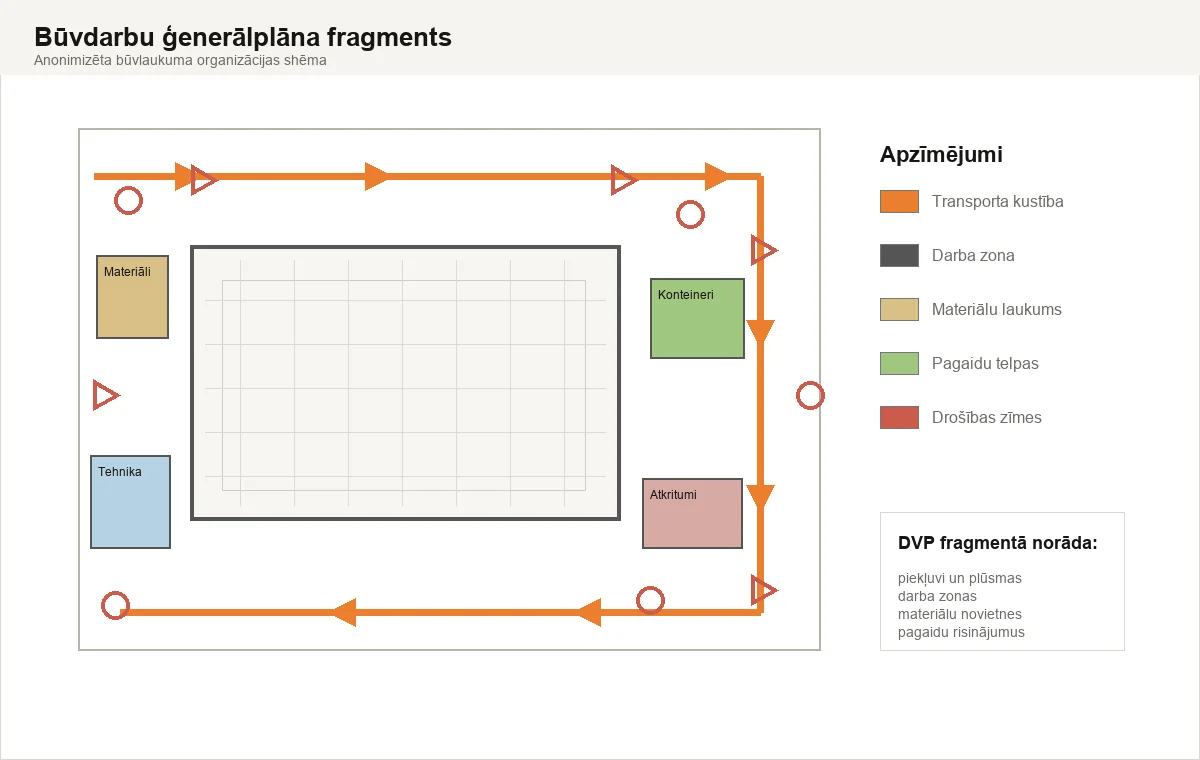
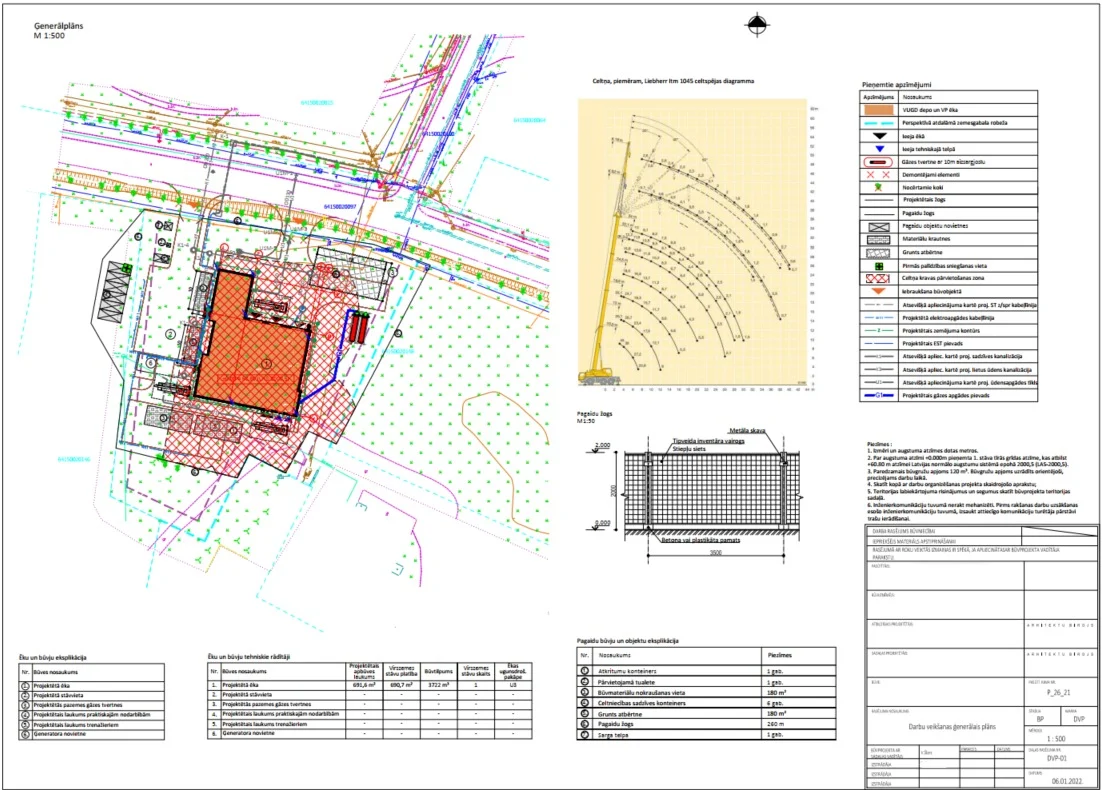
Release DVP examples carousel cleanup

diff --git a/dvp-izstrade.html b/dvp-izstrade.html
@@ -137,7 +137,8 @@
 .cards{display:grid;gap:14px}.card{padding:32px;background:#fff;border:1px solid var(--c-border);border-radius:6px}.section--dark .card{background:rgba(255,255,255,.04);border-color:rgba(255,255,255,.12)}.card__label{font-size:12px;letter-spacing:.12em;text-transform:uppercase;color:var(--c-sand);font-weight:600;margin-bottom:18px}.card h3{font-size:24px;line-height:1.18;font-weight:500;margin-bottom:12px}.card p{color:var(--c-grey)}.section--dark .card p{color:rgba(255,255,255,.68)}
 .notice{background:rgba(200,169,126,.12);border:1px solid rgba(200,169,126,.32);border-radius:6px;padding:32px}.notice h3{font-size:24px;line-height:1.2;font-weight:500;margin-bottom:12px}.notice p{color:var(--c-grey)}
 .steps{display:grid;gap:1px;background:var(--c-border);border:1px solid var(--c-border)}.step{background:var(--c-warm);padding:32px}.step__num{font-size:12px;color:var(--c-sand);font-weight:600;letter-spacing:.12em;margin-bottom:18px}.step h3{font-size:23px;line-height:1.2;font-weight:500;margin-bottom:12px}.step p{color:var(--c-grey)}@media(min-width:900px){.steps{grid-template-columns:repeat(4,1fr)}}
-.source-note{margin-top:22px;color:var(--c-grey);font-size:15px}.source-note a{color:var(--c-graphite);border-bottom:1px solid rgba(15,15,14,.22)}.section--dark .source-note{color:rgba(255,255,255,.68)}.section--dark .source-note a{color:#fff;border-bottom-color:rgba(255,255,255,.28)}.inline-link{color:var(--c-graphite);border-bottom:1px solid rgba(15,15,14,.22)}.section--dark .inline-link{color:#fff;border-bottom-color:rgba(255,255,255,.28)}.tag-list{display:flex;flex-wrap:wrap;gap:10px;margin-top:18px}.tag-list span{display:inline-flex;align-items:center;min-height:34px;padding:6px 12px;border:1px solid var(--c-border);border-radius:4px;background:#fff;color:var(--c-graphite);font-size:14px}.section--dark .tag-list span{background:rgba(255,255,255,.06);border-color:rgba(255,255,255,.14);color:rgba(255,255,255,.84)}.content-groups{display:grid;gap:14px}.content-group{padding:28px;background:#fff;border:1px solid var(--c-border);border-radius:6px}.section--dark .content-group{background:rgba(255,255,255,.04);border-color:rgba(255,255,255,.12)}.content-group h3{font-size:22px;line-height:1.2;font-weight:500;margin-bottom:14px}.content-group ul{list-style:none;display:grid;gap:9px}.content-group li{position:relative;padding-left:20px;color:var(--c-grey)}.content-group li:before{content:"";position:absolute;left:0;top:.72em;width:6px;height:6px;border-radius:50%;background:var(--c-sand)}.section--dark .content-group li{color:rgba(255,255,255,.7)}.preview-grid{display:grid;gap:16px;margin-top:42px}@media(min-width:860px){.preview-grid{grid-template-columns:repeat(3,1fr)}}.preview-card{display:block;width:100%;padding:0;background:#fff;border:1px solid var(--c-border);border-radius:6px;text-align:left;overflow:hidden;color:var(--c-graphite);transition:transform .18s,border-color .18s}.preview-card:hover{transform:translateY(-2px);border-color:rgba(200,169,126,.65)}.preview-card:focus-visible{outline:3px solid rgba(200,169,126,.55);outline-offset:3px}.preview-card img{display:block;width:100%;aspect-ratio:16/10;object-fit:cover;background:#fff}.preview-card__body{display:block;padding:22px}.preview-card__title{display:block;font-size:21px;line-height:1.2;font-weight:500;margin-bottom:8px}.preview-card__text{display:block;color:var(--c-grey);font-size:15px;line-height:1.55}.compare-grid{display:grid;gap:14px}@media(min-width:820px){.compare-grid{grid-template-columns:1fr 1fr}}.compare-card{padding:30px;background:#fff;border:1px solid var(--c-border);border-radius:6px}.compare-card h3{font-size:23px;font-weight:500;margin-bottom:12px}.compare-card p{color:var(--c-grey)}.not-equal{margin-top:18px;font-size:18px;font-weight:700;color:var(--c-sand)}.preview-dialog{width:min(1120px,calc(100vw - 32px));padding:0;border:0;border-radius:6px;background:#fff;box-shadow:0 24px 80px rgba(0,0,0,.34)}.preview-dialog::backdrop{background:rgba(15,15,14,.78)}.preview-dialog__inner{position:relative;padding:18px}.preview-dialog__close{position:absolute;right:26px;top:26px;width:42px;height:42px;border-radius:4px;background:rgba(15,15,14,.9);color:#fff;font-size:28px;line-height:1}.preview-dialog__close:focus-visible{outline:3px solid rgba(200,169,126,.75);outline-offset:3px}.preview-dialog img{display:block;width:100%;height:auto;border:1px solid var(--c-border);background:#fff}.preview-dialog[open]{display:block}
+.source-note{margin-top:22px;color:var(--c-grey);font-size:15px}.source-note a{color:var(--c-graphite);border-bottom:1px solid rgba(15,15,14,.22)}.section--dark .source-note{color:rgba(255,255,255,.68)}.section--dark .source-note a{color:#fff;border-bottom-color:rgba(255,255,255,.28)}.inline-link{color:var(--c-graphite);border-bottom:1px solid rgba(15,15,14,.22)}.section--dark .inline-link{color:#fff;border-bottom-color:rgba(255,255,255,.28)}.tag-list{display:flex;flex-wrap:wrap;gap:10px;margin-top:18px}.tag-list span{display:inline-flex;align-items:center;min-height:34px;padding:6px 12px;border:1px solid var(--c-border);border-radius:4px;background:#fff;color:var(--c-graphite);font-size:14px}.section--dark .tag-list span{background:rgba(255,255,255,.06);border-color:rgba(255,255,255,.14);color:rgba(255,255,255,.84)}.content-groups{display:grid;gap:14px}.content-group{padding:28px;background:#fff;border:1px solid var(--c-border);border-radius:6px}.section--dark .content-group{background:rgba(255,255,255,.04);border-color:rgba(255,255,255,.12)}.content-group h3{font-size:22px;line-height:1.2;font-weight:500;margin-bottom:14px}.content-group ul{list-style:none;display:grid;gap:9px}.content-group li{position:relative;padding-left:20px;color:var(--c-grey)}.content-group li:before{content:"";position:absolute;left:0;top:.72em;width:6px;height:6px;border-radius:50%;background:var(--c-sand)}.section--dark .content-group li{color:rgba(255,255,255,.7)}.compare-grid{display:grid;gap:14px}@media(min-width:820px){.compare-grid{grid-template-columns:1fr 1fr}}.compare-card{padding:30px;background:#fff;border:1px solid var(--c-border);border-radius:6px}.compare-card h3{font-size:23px;font-weight:500;margin-bottom:12px}.compare-card p{color:var(--c-grey)}.preview-dialog{width:min(1120px,calc(100vw - 32px));padding:0;border:0;border-radius:6px;background:#fff;box-shadow:0 24px 80px rgba(0,0,0,.34)}.preview-dialog::backdrop{background:rgba(15,15,14,.78)}.preview-dialog__inner{position:relative;padding:18px}.preview-dialog__close{position:absolute;right:26px;top:26px;width:42px;height:42px;border-radius:4px;background:rgba(15,15,14,.9);color:#fff;font-size:28px;line-height:1}.preview-dialog__close:focus-visible{outline:3px solid rgba(200,169,126,.75);outline-offset:3px}.preview-dialog img{display:block;width:100%;height:auto;border:1px solid var(--c-border);background:#fff}.preview-dialog[open]{display:block}
+.dvp-gallery{margin-top:48px;padding:clamp(16px,3vw,30px);background:var(--c-light);border:1px solid var(--c-border);border-radius:6px;box-shadow:0 20px 70px rgba(15,15,14,.08)}.dvp-gallery__viewport{position:relative;display:flex;align-items:center;justify-content:center;min-height:clamp(360px,58vw,680px);background:#fff;border:1px solid var(--c-border);border-radius:4px;overflow:hidden}.dvp-gallery__image-button{display:flex;align-items:center;justify-content:center;width:100%;min-height:inherit;padding:18px;background:#fff}.dvp-gallery__image-button:focus-visible{outline:3px solid rgba(200,169,126,.55);outline-offset:-6px}.dvp-gallery__image{display:block;width:100%;height:clamp(330px,54vw,640px);object-fit:contain;background:#fff}.dvp-gallery__nav{position:absolute;top:50%;z-index:2;display:inline-flex;align-items:center;justify-content:center;width:48px;height:48px;border:1px solid rgba(15,15,14,.14);border-radius:4px;background:rgba(255,255,255,.94);color:var(--c-graphite);box-shadow:0 10px 26px rgba(15,15,14,.12);transition:background .18s,border-color .18s,transform .18s}.dvp-gallery__nav:hover{background:#fff;border-color:rgba(200,169,126,.7);transform:translateY(-50%) scale(1.03)}.dvp-gallery__nav:focus-visible{outline:3px solid rgba(200,169,126,.55);outline-offset:3px}.dvp-gallery__nav--prev{left:18px;transform:translateY(-50%)}.dvp-gallery__nav--next{right:18px;transform:translateY(-50%)}.dvp-gallery__nav svg{width:21px;height:21px}.dvp-gallery__meta{display:grid;gap:16px;margin-top:22px}@media(min-width:760px){.dvp-gallery__meta{grid-template-columns:1fr auto;align-items:end}}.dvp-gallery__title{font-size:24px;line-height:1.2;font-weight:500;margin-bottom:6px}.dvp-gallery__text{color:var(--c-grey);font-size:16px;line-height:1.55}.dvp-gallery__counter{display:inline-flex;align-items:center;justify-content:center;min-width:74px;min-height:42px;padding:8px 14px;border:1px solid var(--c-border);border-radius:4px;background:#fff;color:var(--c-grey);font-size:14px;font-weight:600}.preview-dialog{width:min(1420px,calc(100vw - 28px));height:min(92vh,900px);max-height:92vh;background:var(--c-light)}.preview-dialog__inner{height:100%;display:flex;flex-direction:column;padding:18px}.preview-dialog__figure{height:100%;display:grid;grid-template-rows:minmax(0,1fr) auto;gap:14px}.preview-dialog img{width:100%;height:100%;max-height:calc(92vh - 112px);object-fit:contain}.preview-dialog__caption{display:grid;gap:3px;color:var(--c-graphite);padding-right:58px}.preview-dialog__caption strong{font-size:17px;line-height:1.25;font-weight:600}.preview-dialog__caption span{color:var(--c-grey);font-size:14px;line-height:1.45}@media(max-width:640px){.dvp-gallery{margin-top:36px;padding:12px}.dvp-gallery__viewport{min-height:360px}.dvp-gallery__image-button{padding:12px}.dvp-gallery__image{height:336px}.dvp-gallery__nav{width:42px;height:42px}.dvp-gallery__nav--prev{left:10px}.dvp-gallery__nav--next{right:10px}.dvp-gallery__title{font-size:21px}.preview-dialog{width:calc(100vw - 16px);height:88vh}.preview-dialog__inner{padding:12px}.preview-dialog__close{right:18px;top:18px}.preview-dialog img{max-height:calc(88vh - 116px)}.preview-dialog__caption{padding-right:54px}}
 .faq{padding:var(--sp-10) 0;background:#fff}.faq__head{max-width:760px;margin-bottom:56px}.faq__list{display:grid;gap:12px}.faq__item{border:1px solid var(--c-border);border-radius:6px;background:#fff;overflow:hidden}.faq__question{width:100%;display:flex;align-items:center;justify-content:space-between;gap:18px;padding:22px 24px;text-align:left;font-size:18px;font-weight:600;color:var(--c-graphite)}.faq__icon{width:20px;height:20px;flex:0 0 auto;transition:transform .18s}.faq__item.open .faq__icon{transform:rotate(45deg)}.faq__answer{display:none;padding:0 24px 24px;color:var(--c-grey)}.faq__item.open .faq__answer{display:block}
 .related{background:var(--c-light);padding:80px 0}.related h2{font-size:clamp(30px,4vw,52px);font-weight:300;line-height:1.08;margin-bottom:32px}.related__grid{display:grid;gap:14px}.related-card{min-height:76px;padding:22px 24px;background:#fff;border:1px solid var(--c-border);border-radius:4px;display:flex;align-items:center;justify-content:space-between;font-weight:600;transition:.18s}.related-card:hover{transform:translateY(-2px);border-color:rgba(200,169,126,.55)}@media(min-width:760px){.related__grid{grid-template-columns:repeat(2,1fr)}}
 .cta{padding:var(--sp-10) 0;background:#fff}.cta__box{background:var(--c-graphite);color:#fff;border-radius:6px;padding:clamp(32px,6vw,72px);display:grid;gap:40px;align-items:start}.cta p{color:rgba(255,255,255,.72);font-size:18px;max-width:680px;margin-top:20px}.cta__actions{display:flex;flex-wrap:wrap;gap:14px;margin-top:28px}@media(min-width:920px){.cta__box{grid-template-columns:.95fr 1.05fr}}
@@ -327,19 +328,25 @@
         </div>
         <p class="lead reveal d2">DVP sastāv no pārskatāmas teksta daļas un praktiskiem pielikumiem. Šie ir anonimizēti priekšskatījumi, kas atspoguļo reālu DVP struktūru bez projekta identificējošiem datiem.</p>
       </div>
-      <div class="preview-grid" aria-label="DVP dokumentācijas priekšskatījumi">
-        <button class="preview-card reveal" type="button" data-preview-src="/assets/dvp/dvp-darbu-grafiks.webp" data-preview-alt="Anonimizēts DVP darbu grafika fragments ar darbu posmiem un laika skalu">
-          <img src="/assets/dvp/dvp-darbu-grafiks.webp" alt="Anonimizēts DVP darbu grafika fragments ar darbu posmiem un laika skalu" width="1200" height="760" loading="lazy" decoding="async">
-          <span class="preview-card__body"><span class="preview-card__title">Darbu grafiks</span><span class="preview-card__text">Laika ass, darbu posmi, ilgums un secība, pēc kuras būvlaukumā plāno izpildi.</span></span>
-        </button>
-        <button class="preview-card reveal d1" type="button" data-preview-src="/assets/dvp/dvp-generalplans.webp" data-preview-alt="Anonimizēts būvdarbu ģenerālplāna fragments ar transporta kustību, darba zonām un materiālu laukumiem">
-          <img src="/assets/dvp/dvp-generalplans.webp" alt="Anonimizēts būvdarbu ģenerālplāna fragments ar transporta kustību, darba zonām un materiālu laukumiem" width="1200" height="760" loading="lazy" decoding="async">
-          <span class="preview-card__body"><span class="preview-card__title">Būvdarbu ģenerālplāns</span><span class="preview-card__text">Būvlaukuma organizācija, transporta plūsma, darba zonas, pagaidu telpas un materiālu novietnes.</span></span>
-        </button>
-        <button class="preview-card reveal d2" type="button" data-preview-src="/assets/dvp/dvp-tehnologiskais-apraksts.webp" data-preview-alt="Anonimizēts DVP tehnoloģiskā apraksta fragments ar darbu metodi, kontroli un pielikumiem">
-          <img src="/assets/dvp/dvp-tehnologiskais-apraksts.webp" alt="Anonimizēts DVP tehnoloģiskā apraksta fragments ar darbu metodi, kontroli un pielikumiem" width="1200" height="760" loading="lazy" decoding="async">
-          <span class="preview-card__body"><span class="preview-card__title">DVP teksta daļa</span><span class="preview-card__text">Darbu metode, tehnoloģiskā secība, aprīkojums, materiāli, pārbaudes un kvalitātes kontrole.</span></span>
-        </button>
+      <div class="dvp-gallery reveal d3" data-dvp-gallery aria-label="DVP dokumentācijas priekšskatījumi">
+        <div class="dvp-gallery__viewport">
+          <button class="dvp-gallery__nav dvp-gallery__nav--prev" type="button" data-dvp-prev aria-label="Iepriekšējais piemērs">
+            <svg viewBox="0 0 24 24" fill="none" aria-hidden="true"><path d="M15 5l-7 7 7 7" stroke="currentColor" stroke-width="1.7" stroke-linecap="round" stroke-linejoin="round"/></svg>
+          </button>
+          <button class="dvp-gallery__image-button" type="button" data-dvp-open aria-label="Palielināt: Būvdarbu ģenerālplāns">
+            <img class="dvp-gallery__image" data-dvp-image src="/assets/dvp/dvp-generalplans.webp" alt="Anonimizēts DVP būvdarbu ģenerālplāna fragments" width="1102" height="790" loading="lazy" decoding="async">
+          </button>
+          <button class="dvp-gallery__nav dvp-gallery__nav--next" type="button" data-dvp-next aria-label="Nākamais piemērs">
+            <svg viewBox="0 0 24 24" fill="none" aria-hidden="true"><path d="M9 5l7 7-7 7" stroke="currentColor" stroke-width="1.7" stroke-linecap="round" stroke-linejoin="round"/></svg>
+          </button>
+        </div>
+        <div class="dvp-gallery__meta">
+          <div class="dvp-gallery__caption">
+            <h3 class="dvp-gallery__title" data-dvp-title>Būvdarbu ģenerālplāns</h3>
+            <p class="dvp-gallery__text" data-dvp-text>Būvlaukuma organizācija, piekļuves un darba zonas.</p>
+          </div>
+          <div class="dvp-gallery__counter" data-dvp-counter aria-live="polite">1 / 5</div>
+        </div>
       </div>
     </div>
   </section>
@@ -348,12 +355,12 @@
     <div class="container split">
       <div>
         <p class="label reveal">DOP un DVP</p>
-        <h2 id="dop-heading" class="reveal d1">DOP ≠ DVP.</h2>
-        <p class="lead reveal d2">DOP un DVP risina saistītus, bet atšķirīgus būvniecības organizācijas jautājumus.</p>
+        <h2 id="dop-heading" class="reveal d1">DOP un DVP</h2>
+        <p class="lead reveal d2">Atšķirīgi dokumenti ar atšķirīgu uzdevumu būvniecības procesā.</p>
       </div>
       <div class="compare-grid">
         <article class="compare-card reveal"><h3>DOP - Darbu organizēšanas projekts</h3><p>DOP ir būvprojekta sastāvā esošs risinājums, kas apraksta būvdarbu organizāciju projekta dokumentācijas līmenī.</p></article>
-        <article class="compare-card reveal d1"><h3>DVP - Darbu veikšanas projekts</h3><p>DVP apraksta, kā būvdarbu veicējs izpildīs konkrētos darbus būvlaukumā. Sagatavojot DVP, ņem vērā DOP vai darbu organizēšanas shēmā norādīto.</p><div class="not-equal">DOP ≠ DVP</div></article>
+        <article class="compare-card reveal d1"><h3>DVP - Darbu veikšanas projekts</h3><p>DVP apraksta, kā būvdarbu veicējs izpildīs konkrētos darbus būvlaukumā. Sagatavojot DVP, ņem vērā DOP vai darbu organizēšanas shēmā norādīto.</p></article>
       </div>
     </div>
   </section>
@@ -440,10 +447,16 @@
   </section>
 </main>
 
-<dialog class="preview-dialog" id="dvpPreviewDialog" aria-label="DVP dokumentācijas priekšskatījums">
+<dialog class="preview-dialog" id="dvpPreviewDialog" aria-labelledby="dvpPreviewTitle" aria-describedby="dvpPreviewText">
   <div class="preview-dialog__inner">
     <button class="preview-dialog__close" type="button" aria-label="Aizvērt priekšskatījumu">×</button>
-    <img id="dvpPreviewImage" src="" alt="">
+    <figure class="preview-dialog__figure">
+      <img id="dvpPreviewImage" src="" alt="">
+      <figcaption class="preview-dialog__caption">
+        <strong id="dvpPreviewTitle"></strong>
+        <span id="dvpPreviewText"></span>
+      </figcaption>
+    </figure>
   </div>
 </dialog>
 
@@ -469,18 +482,67 @@ window.addEventListener('scroll',onScroll,{passive:true});onScroll();
 const observer=new IntersectionObserver(entries=>{entries.forEach(entry=>{if(entry.isIntersecting){entry.target.classList.add('visible');observer.unobserve(entry.target)}})},{threshold:.12});
 document.querySelectorAll('.reveal').forEach(el=>observer.observe(el));
 document.querySelectorAll('.faq__question').forEach(button=>{button.addEventListener('click',()=>{const item=button.closest('.faq__item');const isOpen=item.classList.toggle('open');button.setAttribute('aria-expanded',String(isOpen))})});
+const dvpSlides=[
+  {src:'/assets/dvp/dvp-generalplans.webp',title:'Būvdarbu ģenerālplāns',text:'Būvlaukuma organizācija, piekļuves un darba zonas.',alt:'Anonimizēts DVP būvdarbu ģenerālplāna fragments',width:1102,height:790},
+  {src:'/assets/dvp/dvp-kalendara-grafiks.webp',title:'Darbu veikšanas kalendārais grafiks',text:'Darbu posmi, termiņi un izpildes secība.',alt:'Anonimizēts DVP darbu veikšanas kalendārā grafika fragments',width:897,height:846},
+  {src:'/assets/dvp/dvp-stradnieku-tehnikas-grafiks.webp',title:'Strādnieku un tehnikas kustības grafiks',text:'Darbaspēka un tehnikas plānojums pa būvdarbu posmiem.',alt:'Anonimizēts DVP strādnieku un tehnikas kustības grafika fragments',width:1601,height:807},
+  {src:'/assets/dvp/dvp-betonesanas-tehnologija.webp',title:'Betonēšanas tehnoloģijas apraksts',text:'Darbu izpildes tehnoloģija, prasības un kontrole.',alt:'Anonimizēts DVP betonēšanas tehnoloģijas apraksta fragments',width:890,height:762},
+  {src:'/assets/dvp/dvp-veidnu-demontazas-seciba.webp',title:'Veidņu demontāžas secība',text:'Tehnoloģiskā shēma konkrētam darbu posmam.',alt:'Anonimizēts DVP veidņu demontāžas secības fragments',width:865,height:762}
+];
+const gallery=document.querySelector('[data-dvp-gallery]');
+const galleryImage=document.querySelector('[data-dvp-image]');
+const galleryTitle=document.querySelector('[data-dvp-title]');
+const galleryText=document.querySelector('[data-dvp-text]');
+const galleryCounter=document.querySelector('[data-dvp-counter]');
+const galleryOpen=document.querySelector('[data-dvp-open]');
 const previewDialog=document.getElementById('dvpPreviewDialog');
 const previewImage=document.getElementById('dvpPreviewImage');
+const previewTitle=document.getElementById('dvpPreviewTitle');
+const previewText=document.getElementById('dvpPreviewText');
+let activeDvpSlide=0;
 let previewTrigger=null;
-if(previewDialog&&previewImage){
-  document.querySelectorAll('.preview-card').forEach(button=>{
-    button.addEventListener('click',()=>{
-      previewTrigger=button;
-      previewImage.src=button.dataset.previewSrc||'';
-      previewImage.alt=button.dataset.previewAlt||'DVP dokumentācijas priekšskatījums';
-      if(typeof previewDialog.showModal==='function'){previewDialog.showModal();}else{previewDialog.setAttribute('open','');}
-      previewDialog.querySelector('.preview-dialog__close').focus();
-    });
+const setDvpSlide=index=>{
+  if(!galleryImage||!galleryTitle||!galleryText||!galleryCounter)return;
+  activeDvpSlide=(index+dvpSlides.length)%dvpSlides.length;
+  const slide=dvpSlides[activeDvpSlide];
+  galleryImage.src=slide.src;
+  galleryImage.alt=slide.alt;
+  galleryImage.width=slide.width;
+  galleryImage.height=slide.height;
+  galleryTitle.textContent=slide.title;
+  galleryText.textContent=slide.text;
+  galleryCounter.textContent=`${activeDvpSlide+1} / ${dvpSlides.length}`;
+  if(galleryOpen)galleryOpen.setAttribute('aria-label',`Palielināt: ${slide.title}`);
+};
+if(gallery){
+  gallery.querySelector('[data-dvp-prev]').addEventListener('click',()=>setDvpSlide(activeDvpSlide-1));
+  gallery.querySelector('[data-dvp-next]').addEventListener('click',()=>setDvpSlide(activeDvpSlide+1));
+  gallery.addEventListener('keydown',event=>{
+    if(event.key==='ArrowLeft'){event.preventDefault();setDvpSlide(activeDvpSlide-1);}
+    if(event.key==='ArrowRight'){event.preventDefault();setDvpSlide(activeDvpSlide+1);}
+  });
+  let startX=0;
+  let trackingSwipe=false;
+  gallery.addEventListener('pointerdown',event=>{startX=event.clientX;trackingSwipe=true;});
+  gallery.addEventListener('pointerup',event=>{
+    if(!trackingSwipe)return;
+    const delta=event.clientX-startX;
+    trackingSwipe=false;
+    if(Math.abs(delta)>48)setDvpSlide(activeDvpSlide+(delta<0?1:-1));
+  });
+  gallery.addEventListener('pointercancel',()=>{trackingSwipe=false;});
+  setDvpSlide(0);
+}
+if(previewDialog&&previewImage&&galleryOpen){
+  galleryOpen.addEventListener('click',()=>{
+    const slide=dvpSlides[activeDvpSlide];
+    previewTrigger=galleryOpen;
+    previewImage.src=slide.src;
+    previewImage.alt=slide.alt;
+    previewTitle.textContent=slide.title;
+    previewText.textContent=slide.text;
+    if(typeof previewDialog.showModal==='function'){previewDialog.showModal();}else{previewDialog.setAttribute('open','');}
+    previewDialog.querySelector('.preview-dialog__close').focus();
   });
   previewDialog.querySelector('.preview-dialog__close').addEventListener('click',()=>previewDialog.close());
   previewDialog.addEventListener('close',()=>{previewImage.removeAttribute('src');if(previewTrigger){previewTrigger.focus();previewTrigger=null;}});
